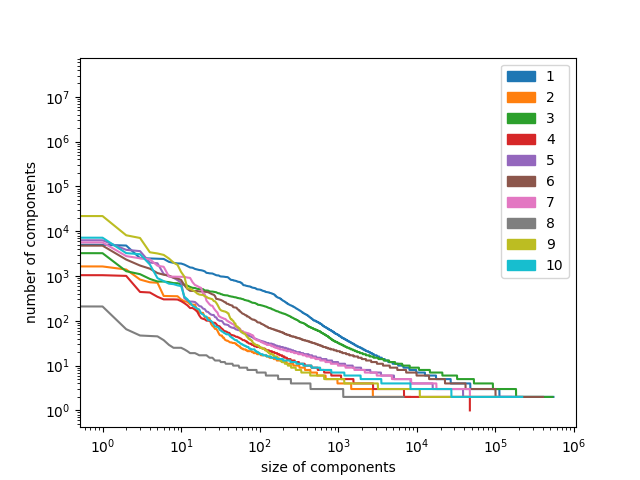
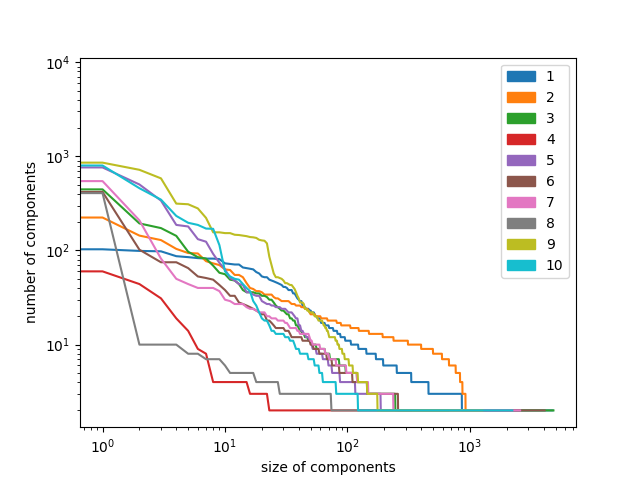
distribuzioni normalizzate

diff --git a/graph_distr_comp.py b/graph_distr_comp.py
@@ -2,6 +2,7 @@ import matplotlib.pyplot as plt
 import matplotlib.patches as mpatches
 import matplotlib.colors as mcolors
 import networkit as nk
+import pandas as pd
 
 list_patch = []
 for color,n in zip(mcolors.TABLEAU_COLORS,range(1,11)):
@@ -13,20 +14,33 @@ for color,n in zip(mcolors.TABLEAU_COLORS,range(1,11)):
     except: 
         print("File not exist")
         exit()
+
     wc = nk.components.WeaklyConnectedComponents(g).run() 
-    print ("Numero di componenti weakly connected del grafo "+str(n)+": "+str(wc.numberOfComponents()))
     dict_comp = wc.getComponentSizes() #Returns a map with the component indexes as keys, and their size as values
-    #list_comp = sorted(dict_comp.items())
-    #x,y = zip(*list_comp)
-    list_scores = sorted(list(dict_comp.values()),reverse=True)
-    #print (list_scores)
+    
+    #GROUPBY SIZE
+    df = pd.DataFrame(list(dict_comp.items()),columns=['id_comp','size'])
+    dfg = df.groupby(['size']).size().reset_index(name='counts')
+
+    #RECUPERO LE DUE LISTE DA PLOTTARE 
+    list_occ = dfg['counts'].tolist()
+    list_size = dfg['size'].tolist()
+
+    #SULLE Y VORREI (NUMERO DI COMPONENTI/COMP TOT)*100
+    #NORMALIZZARE
+    nc = wc.numberOfComponents()
+    list_occ_norm = [((int(occ)/nc)*100) for occ in list_occ]  
+
     plt.xscale("log")
     plt.xlabel("size of components")
     plt.yscale("log")
     plt.ylabel("number of components")
-    plt.plot(list_scores)
+    plt.plot(list_size,list_occ_norm)
+    #SCRIVI NOME CONTRATTO AL POSTO DEL NUMERO
     patch = mpatches.Patch(color=color, label=str(n))
     list_patch.append(patch)
 
+#print(dfg)
+#print(wc.numberOfComponents())
 plt.legend(handles=list_patch)    
-plt.savefig('distr_comp_conn.png')
+plt.savefig('./risultati_analisi/distr_comp_conn_norm.png')

diff --git a/make_graph_distr.py b/make_graph_distr.py
@@ -2,6 +2,9 @@ import matplotlib.pyplot as plt
 import matplotlib.patches as mpatches
 import matplotlib.colors as mcolors
 import networkit as nk
+import matplotlib.ticker as mtick
+import pandas as pd
+
 
 list_patch = []
 for color,n in zip(mcolors.TABLEAU_COLORS,range(1,11)):
@@ -12,15 +15,38 @@ for color,n in zip(mcolors.TABLEAU_COLORS,range(1,11)):
     except: 
         print("File not exist")
         exit()
-    dd = sorted(nk.centrality.DegreeCentrality(g).run().scores(), reverse=True)
-    #print (dd)
+    dd = nk.centrality.DegreeCentrality(g,normalized=True).run()
+    list_res = dd.ranking()
+    
+    #GROUPBY(VALORE)
+    df = pd.DataFrame(list_res,columns=['id_node','degree'])
+    dfg = df.groupby(['degree']).size().reset_index(name='counts')
+    
+    #RECUPERO LE DUE LISTE DA PLOTTARE 
+    list_occ = dfg['counts'].tolist()
+    list_gradi = dfg['degree'].tolist()
+
+    #NORMALIZZARE
+    nt = g.numberOfNodes()
+    list_occ_norm = [((int(occ)/nt)*100) for occ in list_occ]
+    list_gradi = sorted(list_gradi)    
+    #PLOTTO
     plt.xscale("log")
     plt.xlabel("degree")
     plt.yscale("log")
-    plt.ylabel("number of nodes")
-    plt.plot(dd)
+    plt.ylabel("% of nodes")
+    plt.plot(list_gradi,list_occ_norm)
+    #SCRIVI IL NOME CONTRATTO AL POSTO DEL NUMERO
     patch = mpatches.Patch(color=color, label=str(n))
     list_patch.append(patch)
 
+#print(map_degree)
+#print(dfg)
+
+#print("Numero nodi : "+str(g.numberOfNodes()))
+#i=10078
+#print("degree di "+str(i)+" : "+str(list_res[i]))
+
+#PLOTTO LEGENDA E SALVO FILE
 plt.legend(handles=list_patch)    
-plt.savefig('distr_grado_tot_v2.png')
+plt.savefig('./risultati_analisi/distr_grado_normV1.png')

diff --git a/graph.py b/graph.py
@@ -33,19 +33,17 @@ for u, v in g.iterEdges():
 
 #nk.viztasks.drawGraph(g)
 
-#DIAMETRO
-diam = nk.distance.Diameter(g).getDiameter()
-a,b = diam
-#print(a,b)
-for k,value in map_nodes.items():
-    if value == a:
-        ida = k
-    if value == b:
-        idb = k 
-print(str(ida)+"->"+str(idb))  
+wc = nk.components.WeaklyConnectedComponents(g).run() 
+print ("Numero di componenti weakly connected del grafo "+str(n)+": "+str(wc.numberOfComponents()))
+dict_comp = wc.getComponentSizes() #Returns a map with the component indexes as keys, and their size as values
 
-#DENSITA'
-print(nk.graphtools.density(g))
+plt.xscale("log")
+plt.xlabel("size of components")
+plt.yscale("log")
+plt.ylabel("number of components")
+plt.plot(list_scores)
+plt.savefig('distr_comp_conn_1.png')
+
 
 ################IMPLEMENTATA A MANO###############
 #----------------MAP DEI NODI ESEGUITO DA NETWORKIT QUANDO CREA UN GRAFO-----------------#

diff --git a/diam_dens.py b/diam_dens.py
@@ -19,6 +19,7 @@ for n in range(1,11):
         exit()
     map_nodes = reader.getNodeMap()
     #DIAMETRO
+    #PRIMA CALCOLA DISTANZE GRAFO
     diam = nk.distance.Diameter(g).getDiameter()
     a,b = diam
     #print(a,b)
